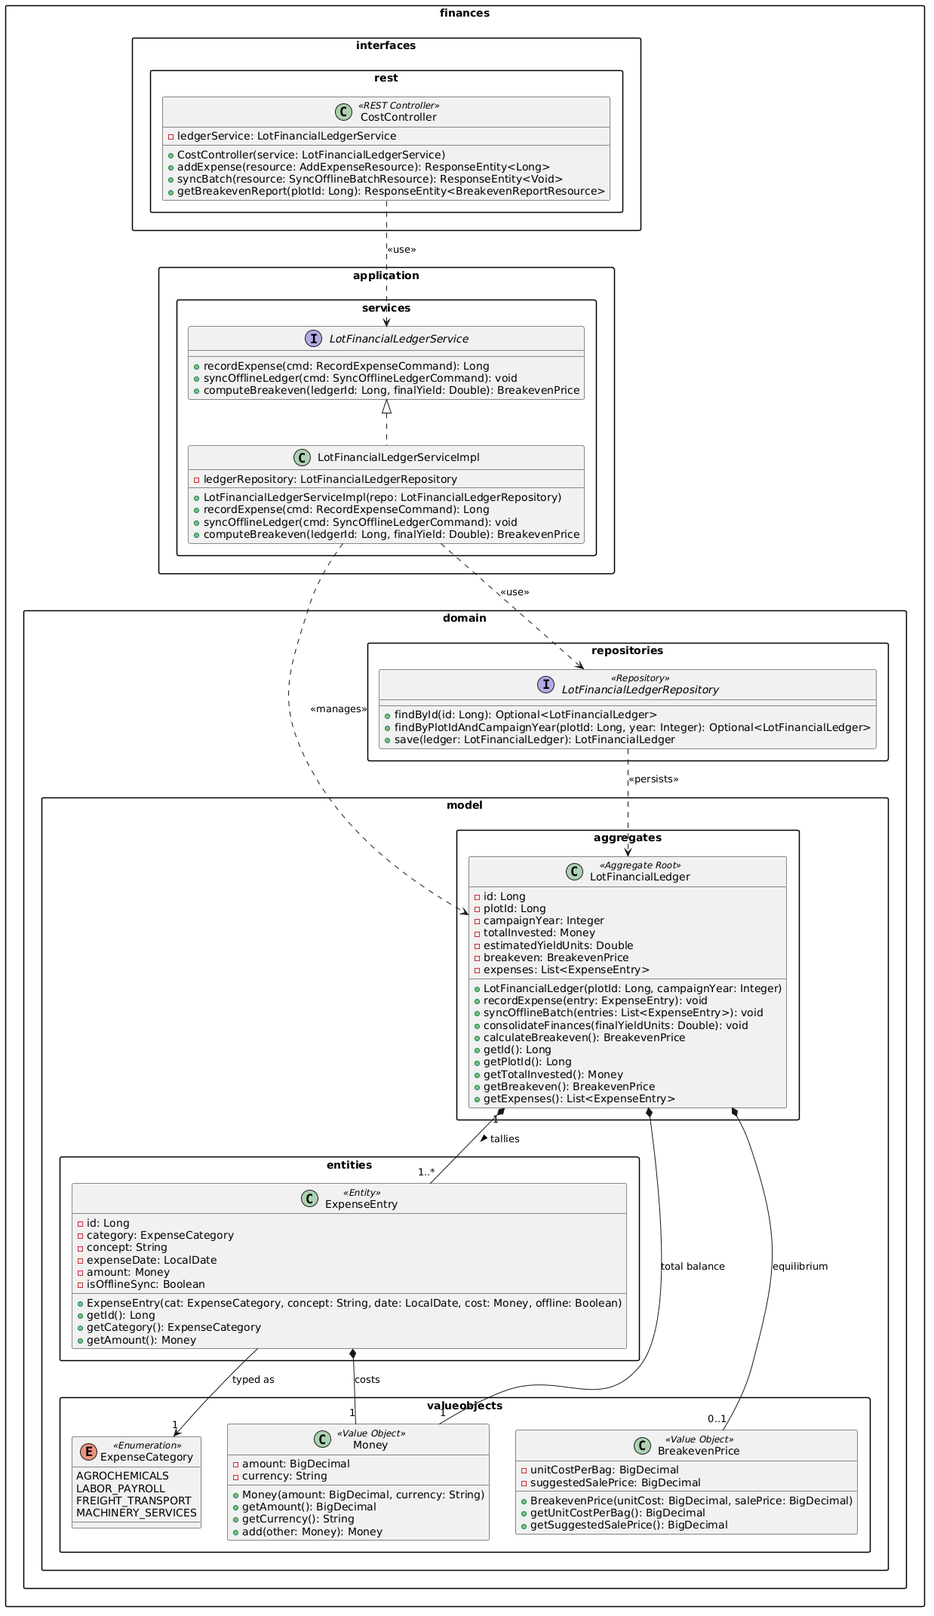
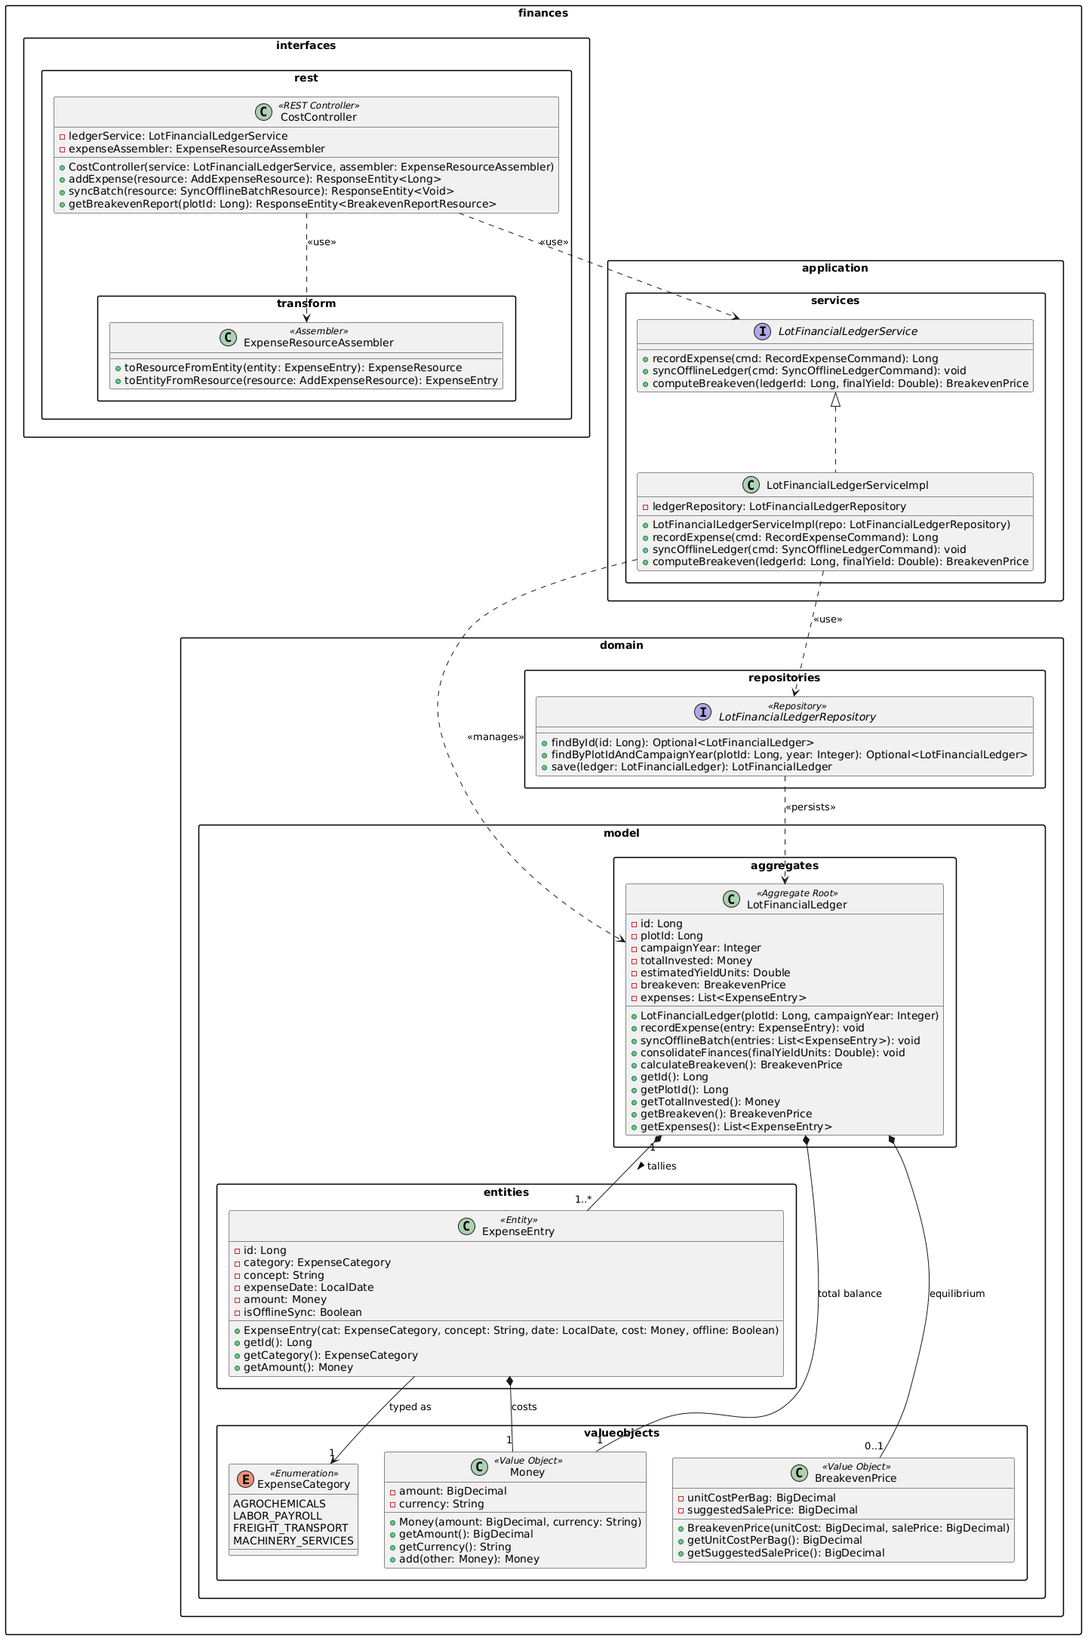
docs(cap4): update class diagrams and refine narrative with assembler components

Changed region(s): [[0.0, 0.0, 1.0, 1.0], [0.8288, 0.7703, 0.8901, 0.8011], [0.3069, 0.3697, 0.3376, 0.4006]]

diff --git a/report/40-chapter-4-design.md b/report/40-chapter-4-design.md
@@ -545,21 +545,24 @@ El Bounded Context de Identity & Access Management modela la gestión de identid
 * **`UserAccountService` y `UserAccountServiceImpl` (Application Layer):**
   Define y ejecuta la orquestación de casos de uso de seguridad. `UserAccountServiceImpl` posee dependencias privadas hacia `UserAccountRepository` y `JwtTokenService`; implementa `+ registerProducer(cmd: RegisterProducerCommand): Long`, `+ registerCooperative(cmd: RegisterCooperativeCommand): Long`, `+ authenticate(cmd: SignInCommand): String` y `+ findById(id: Long): Optional<UserAccount>`.
 
+* **`UserAccountResourceAssembler` (Assembler / Interface Layer):**
+  Componente encargado de la transformación desacoplada entre las cargas útiles de la API y las entidades del dominio. Expone `+ toResourceFromEntity(entity: UserAccount): UserAccountResource` para serializar las respuestas HTTP y `+ toEntityFromResource(resource: SignUpProducerResource): UserAccount` para reconstruir la raíz de agregación.
+
 * **`IamController` (REST Controller Interface Layer):**
-  Punto de entrada HTTP expuesto bajo `/api/v1/auth` y `/api/v1/users`. Inyecta `UserAccountService` y expone `+ signUpProducer(resource: SignUpProducerResource): ResponseEntity<Long>`, `+ signUpCooperative(resource: SignUpCooperativeResource): ResponseEntity<Long>` y `+ signIn(resource: SignInResource): ResponseEntity<AuthenticatedUserResource>`.
+  Punto de entrada HTTP expuesto bajo `/api/v1/auth` y `/api/v1/users`. Inyecta `UserAccountService` y `UserAccountResourceAssembler`, exponiendo `+ signUpProducer(resource: SignUpProducerResource): ResponseEntity<Long>`, `+ signUpCooperative(resource: SignUpCooperativeResource): ResponseEntity<Long>` y `+ signIn(resource: SignInResource): ResponseEntity<AuthenticatedUserResource>`.
 
 ##### Relaciones y Cardinalidades del Contexto:
 * **Composición (`UserAccount` "1" *-- "1..*" `Role`):** Una cuenta de usuario es dueña del ciclo de vida de sus roles asignados; no pueden existir roles huérfanos sin una cuenta asociada. Un usuario posee como mínimo un rol (`1..*`).
 * **Asociación dirigida (`Role` --> "1" `RoleType`):** Cada entidad `Role` referencia exactamente a un valor de la enumeración `RoleType`.
 * **Composición (`UserAccount` *-- "1" `Email` y `PasswordHash`):** La identidad y la seguridad son parte constituyente e inseparable del agregado.
-* **Dependencia de uso (`IamController` ..> `UserAccountService`):** El controlador delega comandos hacia el servicio de aplicación.
+* **Dependencia de uso (`IamController` ..> `UserAccountService` y `UserAccountResourceAssembler`):** El controlador delega comandos hacia el servicio de aplicación y utiliza el ensamblador para mapear recursos externos.
 * **Dependencia de uso y gestión (`UserAccountServiceImpl` ..> `UserAccount` y `UserAccountRepository`):** El servicio gestiona la mutación del agregado e interactúa con el repositorio para persistir los cambios vía JDBC.
 
 ---
 
 #### 4.7.1.2. Subscriptions & Payments Context Class Diagram
 
-Este contexto delimita el modelo de monetización SaaS, gobernando la activación comercial de planes, las cuotas de predios asignadas y la interoperabilidad con pasarelas de pago externas.
+Este contexto delimita el modelo de monetización SaaS, gobernando la activación comercial de planes, la cancelación de membresías, las cuotas de predios asignadas y la interoperabilidad con pasarelas de pago externas.
 
 ![Diagrama de Clases - Subscriptions Context](../assets/img/class-diagrams/subscriptions-class-diagram.png)
 
@@ -580,7 +583,7 @@ Este contexto delimita el modelo de monetización SaaS, gobernando la activació
         * `+ Subscription(userId: Long, planTier: PlanTier, months: Integer)`: Constructor que establece fechas y cuota base.
         * `+ activate(): void`: Habilita la suscripción tras la confirmación del pago.
         * `+ renew(months: Integer): void`: Extiende la fecha de término por el periodo pagado.
-        * `+ cancel(): void`: Inhabilita la renovación automática y actualiza `isActive` a falso.
+        * `+ cancel(): void`: Inhabilita la renovación automática y actualiza `isActive` a falso, emitiendo la cancelación del contrato.
         * `+ hasPlotQuotaAvailable(currentCount: Integer): Boolean`: Valida si el cliente aún puede registrar parcelas adicionales.
 
 * **`PaymentTransaction` (Entity):**
@@ -593,30 +596,30 @@ Este contexto delimita el modelo de monetización SaaS, gobernando la activació
     * `PlanTier`: Define los niveles `FREE_SEED` (plan base individual), `COOPERATIVE_PRO` (gestión gremial multivariable) y `TECHNICAL_ADVISOR` (cartera agronómica).
     * `PaymentStatus`: Fases de cobro `PENDING`, `COMPLETED` y `FAILED`.
 
-* **`StripeClientAdapter` (Outbound Infrastructure Adapter):**
-  Cliente tipado anotado con `@Component` que encapsula las credenciales y llamadas seguras HTTPS/JSON hacia la API de pagos mediante `+ chargeCard(token: String, amount: Money): String`.
+* **`StripeClientAssembler` (Infrastructure Layer):**
+  Componente de infraestructura y enlace con la pasarela de pagos externa. Encapsula las credenciales y llamadas seguras HTTPS/JSON mediante `+ chargeCard(token: String, amount: Money): String` y `+ toPaymentTransaction(stripeResponse: String): PaymentTransaction` para transformar la respuesta sin procesar de la API en la entidad de cobro del dominio.
 
 * **`SubscriptionRepository`, `SubscriptionService` y `SubscriptionController`:**
-  El repositorio declara `+ findByUserId(userId: Long): Optional<Subscription>`. El servicio orquesta `+ selectPlan(cmd: SelectPlanCommand): Long` y `+ processPayment(cmd: ProcessPaymentCommand): Boolean`. El controlador atiende peticiones REST bajo `/api/v1/subscriptions`.
+  El repositorio declara `+ findByUserId(userId: Long): Optional<Subscription>`. El servicio orquesta `+ selectPlan(cmd: SelectPlanCommand): Long`, `+ processPayment(cmd: ProcessPaymentCommand): Boolean` y `+ cancelSubscription(cmd: CancelSubscriptionCommand): void`. El controlador atiende peticiones REST bajo `/api/v1/subscriptions`, exponiendo `+ subscribe()`, `+ pay()` y `+ cancel(subscriptionId: Long): ResponseEntity<Void>`.
 
 ##### Relaciones y Cardinalidades del Contexto:
 * **Composición (`Subscription` "1" *-- "0..*" `PaymentTransaction`):** Las transacciones financieras están subordinadas al contrato de suscripción.
 * **Composición (`PaymentTransaction` *-- "1" `Money`):** El valor económico es intrínseco al comprobante de cobro.
 * **Asociación dirigida hacia Enums:** `Subscription` apunta a `PlanTier` (`1`), y `PaymentTransaction` apunta a `PaymentStatus` (`1`).
-* **Dependencias:** `SubscriptionController` consume `SubscriptionService`, el cual depende de `SubscriptionRepository` y de `StripeClientAdapter` para interactuar con la pasarela externa.
+* **Dependencias:** `SubscriptionController` consume `SubscriptionService`, el cual depende de `SubscriptionRepository` y de `StripeClientAssembler` para interactuar con la pasarela externa.
 
 ---
 
 #### 4.7.1.3. Plot & Crop Management Context Class Diagram
 
-Gestiona la delimitación espacial y catastral de predios agrícolas, los atributos físico-químicos del suelo y las campañas fenológicas de cultivo.
+Gestiona la delimitación espacial y catastral de predios agrícolas, los atributos físico-químicos del suelo y las campañas fenológicas de cultivo instaladas.
 
 ![Diagrama de Clases - Plot & Crop Context](../assets/img/class-diagrams/plots-class-diagram.png)
 
 ##### Desglose Estructural de Clases y Componentes:
 
 * **`FieldPlot` (Aggregate Root):**
-  Raíz de agregación que salvaguarda la integridad geográfica de la parcela.
+  Raíz de agregación que salvaguarda la integridad geográfica y el estado agronómico de la parcela.
     * **Atributos privados:**
         * `- id: Long`: Identificador único del predio.
         * `- producerId: Long`: Vínculo referencial hacia el productor titular en IAM.
@@ -624,29 +627,29 @@ Gestiona la delimitación espacial y catastral de predios agrícolas, los atribu
         * `- calculatedAreaHectares: Double`: Superficie calculada de forma computacional en hectáreas.
         * `- perimeter: PerimeterCoordinates`: Geometría vectorial cerrada del lote.
         * `- soil: SoilBaseline`: Caracterización inicial de suelo.
-        * `- crop: CropBatch`: Cultivo actualmente instalado en el terreno.
+        * `- campaign: CropCampaign`: Campaña agrícola instalada en el terreno.
     * **Métodos públicos:**
         * `+ FieldPlot(producerId: Long, plotName: String, perimeter: PerimeterCoordinates)`: Inicializa la parcela validando topología.
         * `+ updatePerimeter(newPerimeter: PerimeterCoordinates): void`: Recalcula el área y reemplaza las coordenadas perimetrales.
         * `+ registerSoilAnalysis(soil: SoilBaseline): void`: Asocia los resultados de laboratorio del suelo.
-        * `+ startCropCampaign(crop: CropBatch): void`: Asigna un nuevo lote fenológico de siembra.
+        * `+ startCropCampaign(campaign: CropCampaign): void`: Asigna una nueva campaña fenológica de siembra.
 
 * **`PerimeterCoordinates` y `GeoPoint` (Value Objects):**
     * `GeoPoint`: Encapsula un vértice geográfico mediante `- latitude: Double` y `- longitude: Double`, validando los rangos estándar de latitud (-90 a 90) y longitud (-180 a 180).
     * `PerimeterCoordinates`: Encapsula la lista privada `- points: List<GeoPoint>`. Su método `+ validatePolygonClosure(): Boolean` asegura que el vértice final coincida con el inicial, mientras que `+ computeAreaHectares(): Double` calcula el área utilizando el algoritmo de la fórmula de Shoelace proyectada.
 
-* **`SoilBaseline` y `CropBatch` (Entities):**
+* **`SoilBaseline` y `CropCampaign` (Entities):**
     * `SoilBaseline`: Contiene `- textureType: String`, `- phLevel: Double` y `- organicMatterPercentage: Double`.
-    * `CropBatch`: Contiene `- cropType: CropType`, `- seedVariety: String` (ej. Typica, Caturra, Canchán, Yungay) y `- sowingDate: LocalDate`. `CropType` tipifica `SPECIALTY_COFFEE` o `ANDEAN_POTATO`.
+    * `CropCampaign`: Modela la campaña fenológica instalada en la parcela. Contiene los atributos privados `- id: Long`, `- cropType: CropType` (`SPECIALTY_COFFEE` o `ANDEAN_POTATO`), `- seedVariety: String` (ej. Typica, Caturra, Canchán, Yungay) y `- sowingDate: LocalDate`. Expone los métodos `+ updateSeedVariety(variety: String): void` y `+ recordSowingDate(date: LocalDate): void`, soportando los eventos de siembra.
 
-* **`MidagriClientAdapter` (Outbound Infrastructure Adapter):**
-  Componente que interactúa con el Padrón de Productores Agrarios del MIDAGRI mediante `+ validateProducerCadastralId(producerDni: String, cadastralCode: String): Boolean`.
+* **`MidagriClientAssembler` (Infrastructure Layer):**
+  Componente de infraestructura que consulta el Padrón de Productores Agrarios (PPA). Expone `+ validateProducerCadastralId(producerDni: String, cadastralCode: String): Boolean` y `+ toProducerProfile(ppaApiResponse: String): Object` para traducir las respuestas del padrón gubernamental hacia el dominio.
 
 ##### Relaciones y Cardinalidades del Contexto:
 * **Composición (`FieldPlot` "1" *-- "1" `PerimeterCoordinates`):** Toda parcela posee obligatoriamente una frontera geométrica.
 * **Composición (`PerimeterCoordinates` "1" *-- "3..*" `GeoPoint`):** Un polígono válido requiere como mínimo tres vértices cerrados (`3..*`).
-* **Composición (`FieldPlot` "1" *-- "1" `SoilBaseline` y `FieldPlot` "1" *-- "0..1" `CropBatch`):** La línea base de suelo es obligatoria, mientras que la siembra es opcional según el ciclo productivo.
-* **Dependencias:** `FieldPlotServiceImpl` orquesta el agregado utilizando `FieldPlotRepository` y valida la formalidad del predio mediante `MidagriClientAdapter`.
+* **Composición (`FieldPlot` "1" *-- "1" `SoilBaseline` y `FieldPlot` "1" *-- "0..1" `CropCampaign`):** La línea base de suelo es obligatoria, mientras que la campaña es opcional según el ciclo productivo.
+* **Dependencias:** `FieldPlotServiceImpl` orquesta el agregado utilizando `FieldPlotRepository` y valida la formalidad del predio mediante `MidagriClientAssembler`.
 
 ---
 
@@ -675,21 +678,21 @@ Este contexto centraliza la captura de telemetría espectral provista por Sentin
         * `+ addPrescription(rx: TechnicalPrescription): void`: Incorpora la prescripción correctiva del asesor técnico.
 
 * **`NdviReading` y `NdwiReading` (Value Objects):**
-  Encapsulan los índices matemáticos mediante `- value: Double`, validando en sus constructores que el valor numérico se sitúe estrictamente en el intervalo $[-1.0, 1.0]$. `NdviReading` provee `+ isStressAnomaly(): Boolean` (activo si el valor cae por debajo de 0.40 en etapas de floración o crecimiento), y `NdwiReading` expone `+ isWaterDeficit(): Boolean`.
+  Encapsulan los índices matemáticos mediante `- value: Double`, validando en sus constructores que el valor numérico se sitúe estrictamente en el intervalo $[-1.0, 1.0]$. `NdviReading` provee `+ isStressAnomaly(): Boolean` (activo si el valor cae por debajo de 0.40 en etapas clave), y `NdwiReading` expone `+ isWaterDeficit(): Boolean`.
 
 * **`AgroclimaticAlert` y `TechnicalPrescription` (Entities):**
     * `AgroclimaticAlert`: Modela eventos de riesgo; posee `- alertType: String`, `- severity: AlertSeverity` (`LOW`, `MEDIUM`, `CRITICAL`), `- message: String` y `- emittedAt: LocalDateTime`.
     * `TechnicalPrescription`: Receta de campo; posee `- advisorId: Long`, `- diagnosis: String`, `- correctiveTreatment: String`, `- dosage: String` y `- isApplied: Boolean`, exponiendo `+ markAsApplied(): void`.
 
-* **Adaptadores de Integración (`SatelliteClientAdapter`, `WeatherClientAdapter`, `TwilioNotificationAdapter`):**
-    * `SatelliteClientAdapter`: Descarga bandas ópticas multiespectrales B4, B8 y B8A desde la API de Sentinel-2.
-    * `WeatherClientAdapter`: Consume alertas climáticas y pronósticos de heladas de SENAMHI.
-    * `TwilioNotificationAdapter`: Remite notificaciones de emergencia mediante SMS y WhatsApp a terminales de agricultores en zonas con baja conectividad.
+* **Componentes de Integración y Transformación (`SatelliteClientAssembler`, `WeatherClientAssembler`, `TwilioNotificationAssembler`):**
+    * `SatelliteClientAssembler`: Descarga bandas ópticas multiespectrales B4, B8 y B8A desde Sentinel-2 y ejecuta `+ toVegetationAnalysis(tileData: byte[]): VegetationAnalysis`.
+    * `WeatherClientAssembler`: Consume alertas meteorológicas y heladas de SENAMHI, traduciéndolas mediante `+ toAgroclimaticAlert(rawWeatherAlert: String): AgroclimaticAlert`.
+    * `TwilioNotificationAssembler`: Serializa la alerta en una carga útil de texto con `+ toSmsPayload(alert: AgroclimaticAlert): String` y despacha el mensaje SMS/WhatsApp a los productores.
 
 ##### Relaciones y Cardinalidades del Contexto:
 * **Composición (`VegetationAnalysis` "1" *-- "1" `NdviReading` y `NdwiReading`):** Los índices satelitales son inseparables del informe espectral.
 * **Composición (`VegetationAnalysis` "1" *-- "0..*" `AgroclimaticAlert` y `TechnicalPrescription`):** El análisis de una fecha puede generar múltiples alertas y albergar varias prescripciones correctivas.
-* **Dependencias:** `VegetationAnalysisServiceImpl` consume los adaptadores satelitales, meteorológicos y de mensajería para orquestar la ingesta y respuesta agronómica.
+* **Dependencias:** `VegetationAnalysisServiceImpl` consume los ensambladores satelitales, meteorológicos y de mensajería para orquestar la ingesta y respuesta agronómica.
 
 ---
 
@@ -718,18 +721,22 @@ Modela la contabilidad analítica de costos agrícolas, soportando la sincroniza
         * `+ calculateBreakeven(): BreakevenPrice`: Ejecuta la fórmula financiera dividiendo el total invertido entre el volumen cosechado.
 
 * **`ExpenseEntry` (Entity) y `ExpenseCategory` (Enumeration):**
-  Modela cada egreso operativo. Contiene `- id: Long`, `- category: ExpenseCategory`, `- concept: String`, `- expenseDate: LocalDate`, `- amount: Money` y `- isOfflineSync: Boolean`. `ExpenseCategory` clasifica el gasto en `AGROCHEMICALS` (fertilizantes y plaguicidas), `LABOR_PAYROLL` (jornales de campo), `FREIGHT_TRANSPORT` (flete rural) o `MACHINERY_SERVICES` (alquiler de tractor o despulpadoras).
+  Modela cada egreso operativo. Contiene `- id: Long`, `- category: ExpenseCategory`, `- concept: String`, `- expenseDate: LocalDate`, `- amount: Money` y `- isOfflineSync: Boolean`. `ExpenseCategory` clasifica el gasto en `AGROCHEMICALS` (fertilizantes y plaguicidas), `LABOR_PAYROLL` (jornales de campo), `FREIGHT_TRANSPORT` (flete rural) o `MACHINERY_SERVICES` (alquiler de maquinaria).
 
 * **`BreakevenPrice` (Value Object):**
   Almacena de forma inmutable el resultado del costeo financiero mediante `- unitCostPerBag: BigDecimal` y `- suggestedSalePrice: BigDecimal` (precio con margen de utilidad proyectado).
 
+* **`ExpenseResourceAssembler` (Assembler / Interface Layer):**
+  Transformador de presentación desacoplado. Expone `+ toResourceFromEntity(entity: ExpenseEntry): ExpenseResource` y `+ toEntityFromResource(resource: AddExpenseResource): ExpenseEntry` para evitar que las entidades contables internas queden expuestas directamente sobre la red HTTP.
+
 * **`LotFinancialLedgerRepository`, `LotFinancialLedgerService` y `CostController`:**
-  El repositorio permite la consulta mediante `+ findByPlotIdAndCampaignYear(plotId: Long, year: Integer)`. El servicio orquesta `+ recordExpense()`, `+ syncOfflineLedger()` y `+ computeBreakeven()`. El controlador REST expone los endpoints en `/api/v1/finances`.
+  El repositorio permite la consulta mediante `+ findByPlotIdAndCampaignYear(plotId: Long, year: Integer)`. El servicio orquesta `+ recordExpense()`, `+ syncOfflineLedger()` y `+ computeBreakeven()`. El controlador REST expone los endpoints en `/api/v1/finances` e inyecta `ExpenseResourceAssembler`.
 
 ##### Relaciones y Cardinalidades del Contexto:
 * **Composición (`LotFinancialLedger` "1" *-- "1..*" `ExpenseEntry`):** Un libro contable se compone necesariamente de uno o más asientos de egreso.
 * **Composición (`LotFinancialLedger` *-- "1" `Money` y `0..1` `BreakevenPrice`):** El balance acumulado y el punto de equilibrio son partes integrales del estado del libro contable.
 * **Asociación dirigida (`ExpenseEntry` --> "1" `ExpenseCategory`):** Todo asiento está unívocamente tipificado por una categoría operativa.
+* **Dependencias:** `CostController` utiliza `LotFinancialLedgerService` y `ExpenseResourceAssembler` para procesar y presentar los asientos contables.
 
 ---
 
@@ -766,13 +773,13 @@ Este contexto delimita el pesaje formal de acopio, la graduación física de tub
 * **`QualityCertificate` (Value Object):**
   Encapsula la acreditación inmutable mediante `- certificateCode: String`, `- digitalSignatureHash: String` (código hash SHA-256 generado sobre los atributos del lote), `- publicVerificationUrl: String` y `- issuedAt: LocalDateTime`.
 
-* **`PdfQrGeneratorAdapter` (Outbound Infrastructure Adapter):**
-  Generador técnico que sintetiza el reporte formal en un arreglo binario `byte[]` en formato PDF e incrusta el código QR direccionado a la URL pública de validación.
+* **`PdfQrGeneratorAssembler` (Infrastructure Layer):**
+  Componente encargado del ensamblado técnico de comprobantes. Ejecuta `+ generateQualityReportPdf(batch: HarvestBatch): byte[]` para compilar el reporte formal en PDF y `+ createQrCodePng(publicUrl: String): byte[]` para renderizar la matriz visual del código QR auditable.
 
 ##### Relaciones y Cardinalidades del Contexto:
 * **Composición (`HarvestBatch` "1" *-- "0..1" `CoffeeCuppingSession` / `PotatoCaliberGrading`):** La evaluación técnica depende del tipo botánico del cultivo cosechado en la parcela.
 * **Composición (`HarvestBatch` "1" *-- "0..1" `QualityCertificate`):** El certificado digital se expide únicamente tras concluir el pesaje y la calificación técnica.
-* **Dependencias:** `HarvestBatchServiceImpl` orquesta el agregado y delega en `PdfQrGeneratorAdapter` la construcción de los artefactos visuales de verificación.
+* **Dependencias:** `HarvestBatchServiceImpl` orquesta el agregado y delega en `PdfQrGeneratorAssembler` la construcción de los artefactos visuales de verificación.
 
 ---
 
@@ -795,7 +802,7 @@ Gobierna la publicación en catálogo de los lotes certificados, la recepción d
         * `- netMargin: NetMargin`: Margen de ganancia neta consolidado.
         * `- offers: List<PurchaseOffer>`: Lista de propuestas de compra recibidas.
     * **Métodos públicos:**
-        * `+ publishLot(): void`: Transiciona el estado a publicado en el catálogo mayorista.
+        * `+ publishLot(): void`: Transiciona el estado a publicado en el catálogo mayorista tras verificar el punto de equilibrio.
         * `+ receiveOffer(offer: PurchaseOffer): void`: Añade una propuesta de compra a la negociación.
         * `+ acceptOfferAndLiquidate(offerId: Long, productionCost: Money): void`: Acepta la oferta seleccionada, calcula el margen neto resultante y cambia el estado a liquidado (`LIQUIDATED`).
 
@@ -806,14 +813,17 @@ Gobierna la publicación en catálogo de los lotes certificados, la recepción d
     * `SettlementStatus`: Máquina de estados de la venta: `DRAFT`, `PUBLISHED`, `OFFER_RECEIVED`, `ACCEPTED` y `LIQUIDATED`.
     * `NetMargin`: Objeto inmutable que almacena `- netProfitAmount: BigDecimal` y `- marginPercentage: Double`, garantizando que la liquidación visualice la rentabilidad final obtenida.
 
+* **`SettlementResourceAssembler` (Assembler / Interface Layer):**
+  Traduce las peticiones comerciales entre la web y el dominio. Implementa `+ toResourceFromEntity(entity: CommercialSettlement): SettlementResource` y `+ toEntityFromResource(resource: PublishLotResource): CommercialSettlement`.
+
 * **`CommercialSettlementRepository`, `CommercialSettlementService` y `SettlementController`:**
-  El repositorio declara `+ findByHarvestBatchId(batchId: Long): Optional<CommercialSettlement>`. El servicio orquesta `+ publishCertifiedLot()`, `+ submitBidOffer()` y `+ settleCommercialSale()`. El controlador REST expone los endpoints bajo `/api/v1/settlements`.
+  El repositorio declara `+ findByHarvestBatchId(batchId: Long): Optional<CommercialSettlement>`. El servicio orquesta `+ publishCertifiedLot(cmd: PublishLotCommand): Long`, `+ submitBidOffer()` y `+ settleCommercialSale()`. El controlador REST expone los endpoints bajo `/api/v1/settlements` e inyecta `SettlementResourceAssembler`.
 
 ##### Relaciones y Cardinalidades del Contexto:
 * **Composición (`CommercialSettlement` "1" *-- "0..*" `PurchaseOffer`):** Un acuerdo comercial puede recibir múltiples ofertas mayoristas en competencia (`0..*`).
 * **Composición (`CommercialSettlement` *-- "1" `Money` y `0..1` `NetMargin`):** El precio base y el margen neto final son parte constituyente del agregado.
 * **Asociación dirigida (`CommercialSettlement` --> "1" `SettlementStatus`):** El ciclo de vida de la comercialización está regido por la enumeración de estados.
-* **Dependencias:** `SettlementController` utiliza `CommercialSettlementService`, el cual opera sobre el agregado `CommercialSettlement` y persiste su estado mediante `CommercialSettlementRepository`.lSettlementRepository` (Domain Repository):** Persiste los contratos y acuerdos transaccionales en la base de datos relacional.
+* **Dependencias:** `SettlementController` utiliza `CommercialSettlementService` y `SettlementResourceAssembler`, el cual opera sobre el agregado `CommercialSettlement` y persiste su estado mediante `CommercialSettlementRepository`.
 
 ---
 
